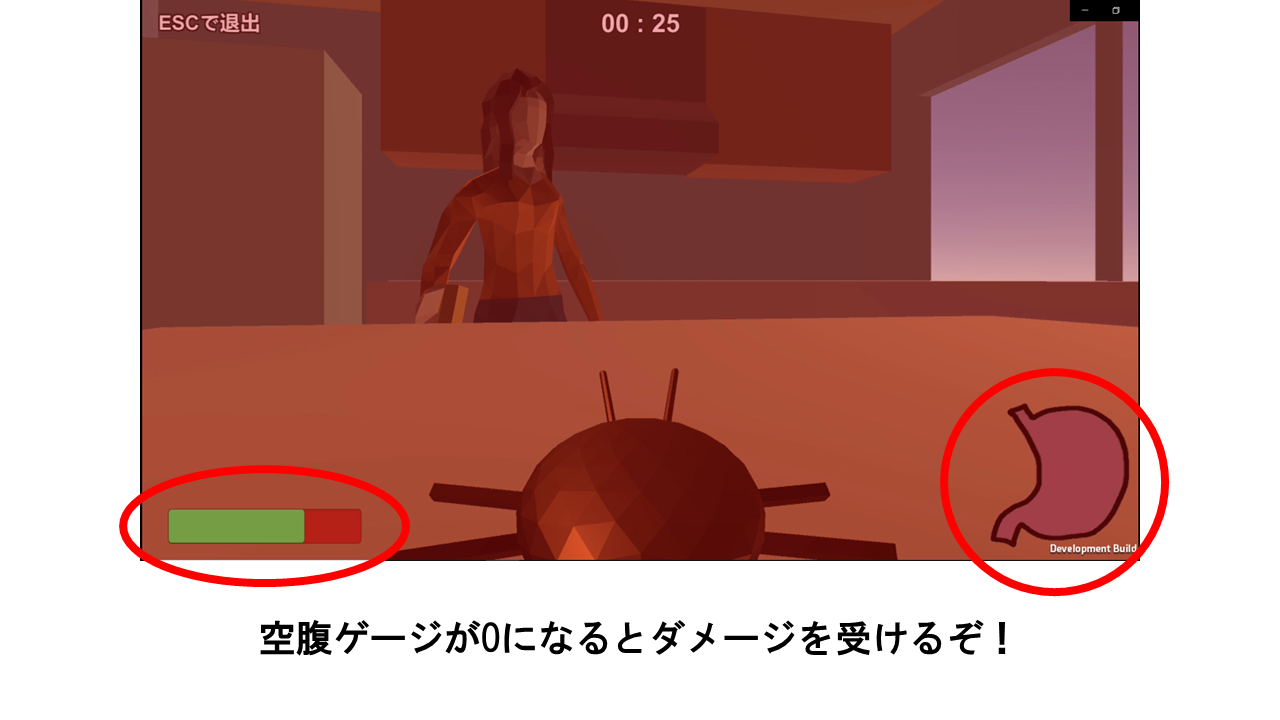
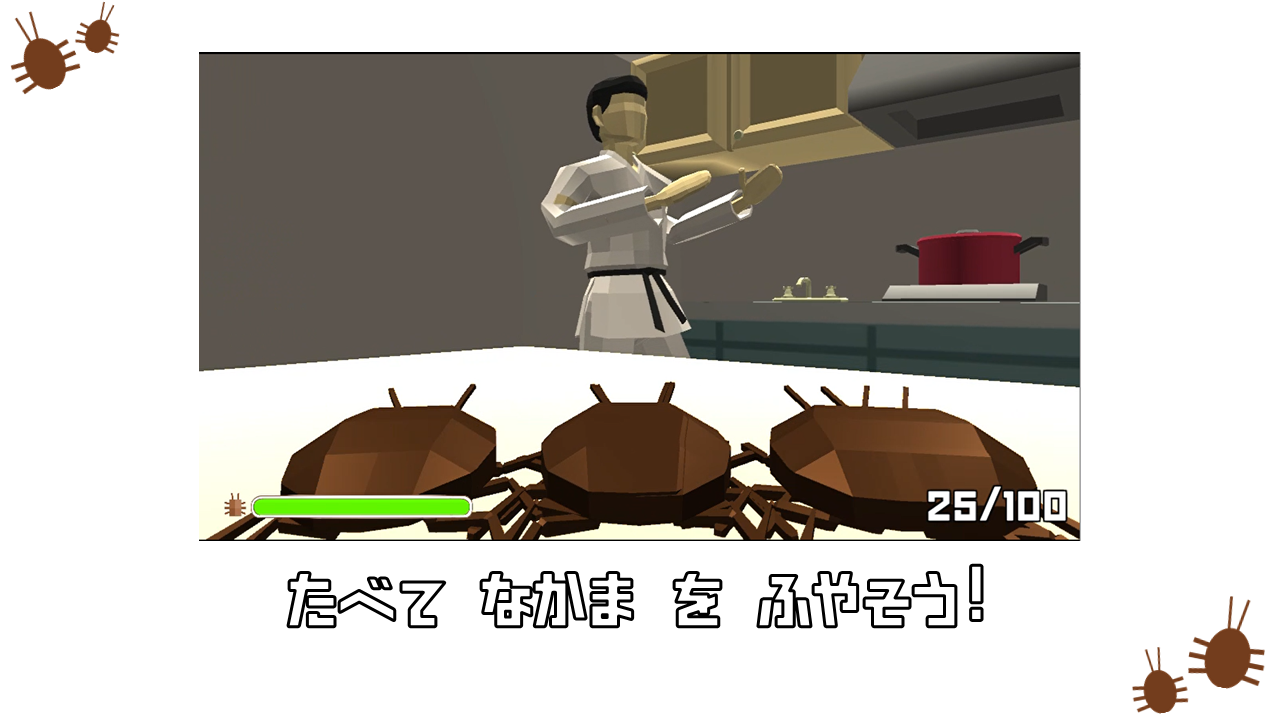
チュートリアルの差し替え

diff --git a/Assets/Scripts/Menu/MenuController.cs b/Assets/Scripts/Menu/MenuController.cs
@@ -19,7 +19,7 @@ public class MenuController : MonoBehaviour
 
     private void Update()
     {
-        if (NetWorkGameManager.Instance.m_isResualt) return;
+        if (NetWorkGameManager.Instance && NetWorkGameManager.Instance.m_isResualt) return;
 
         if (Input.GetButtonDown("Start"))
         {
